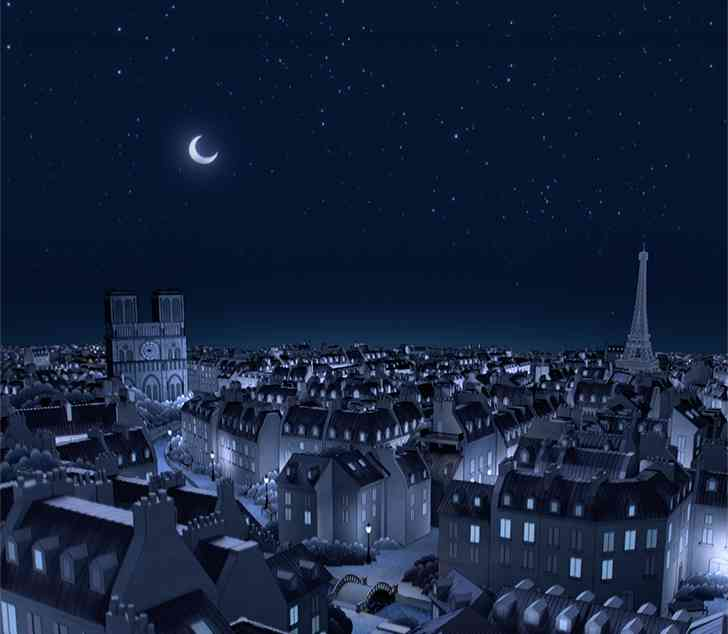
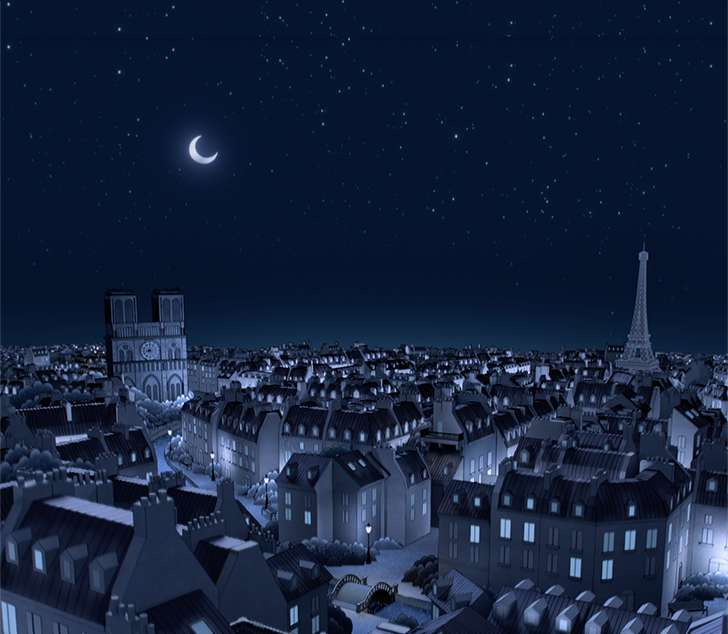
New VCA format

diff --git a/work/iena/van-cleef-arpels/201906171730/vca_nuit_728x300/index.js b/work/iena/van-cleef-arpels/201906171730/vca_nuit_728x300/index.js
@@ -48,11 +48,13 @@ function init() {
 
 		TweenMax.set([character_girl, character_boy], {clip: 'rect(' + (height * 0.1) + 'px,' + (width * 0.9) + 'px,' + (height * 0.9) + 'px,' + (width * 0.1) + 'px)'}) // Firefox overflow fix
 
+		console.log()
+
 		tl
 		.to(frame_1_scale, 3.5, {scale: 1.2, ease: Power0.easeNone})
 
 		.from(city_overlay, 0.3, {opacity: 0, ease: Power0.easeNone}, 1.2)
-		.from(city_overlay, 3.8, {y: 334, ease: Power0.easeNone}, 0.7)
+		.fromTo(city_overlay, 3.8, {y: city_overlay.offsetHeight - height, scale: 1}, {y: -city_overlay.offsetHeight * 0.1, scale: 1.2, ease: Power0.easeNone}, 0.7)
 		.to(city_overlay, 0.5, {opacity: 0, ease: Power0.easeNone}, 4)
 
 		.from(scene, 0.2, {opacity: 0, ease: Power0.easeNone}, 3.5)
